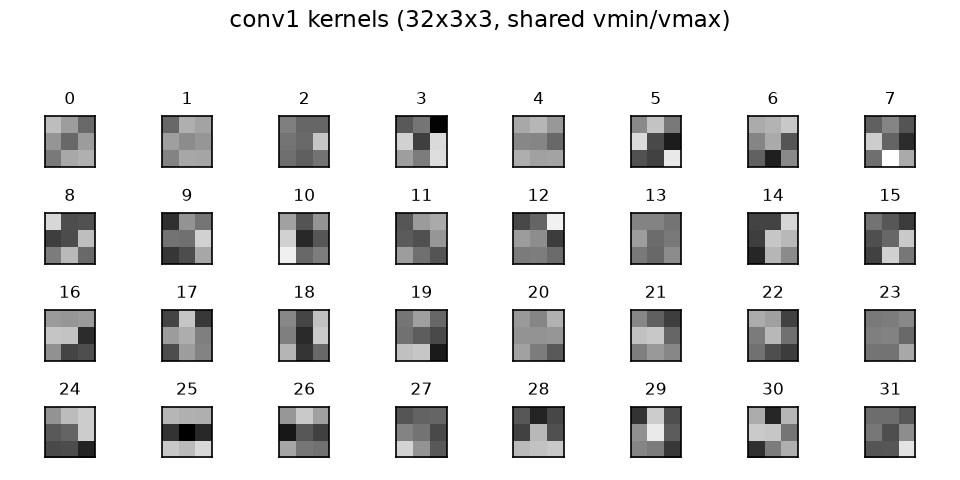
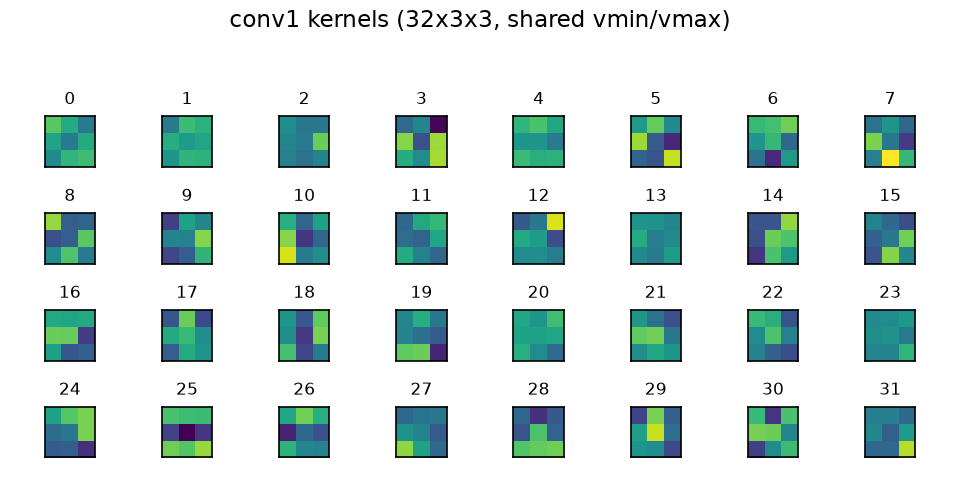
README: embed sample output images; restore colormap figures (viridis/magma)

diff --git a/visualize_features.py b/visualize_features.py
@@ -3,7 +3,7 @@
 Loads the best model (``best_model.pt``) and writes two figures to
 ``--out-dir`` (default, project root):
 
-- ``conv1_filters.png``: ``conv1``'s 32 learned 3x3 kernels as a grayscale grid.
+- ``conv1_filters.png``: ``conv1``'s 32 learned 3x3 kernels as a viridis grid.
 - ``feature_maps.png``: for one test image per digit, the activation maps after
   each of the three conv blocks (8 evenly-spaced channels sampled per block)
   plus the digit the model predicted.
@@ -77,7 +77,7 @@ def plot_conv1_filters(model: MNISTNet, out_dir: Path) -> None:
     for index, ax in enumerate(axes.flat):
         data = filters[index].astype("float64")
         normalized = (data - lower) / span
-        ax.imshow(normalized, cmap="gray", vmin=0.0, vmax=1.0)
+        ax.imshow(normalized, cmap="viridis", vmin=0.0, vmax=1.0)
         ax.set_title(f"{index}", fontsize=8)
         ax.tick_params(left=False, bottom=False, labelleft=False, labelbottom=False)
     fig.suptitle(f"conv1 kernels ({filters.shape[0]}x3x3, shared vmin/vmax)", fontsize=11)
@@ -139,7 +139,7 @@ def plot_feature_maps(
             num_channels = block.shape[0]
             sample = sample_channels(num_channels, cols_per_block)
             for offset, channel in enumerate(sample):
-                show_tile(axes[digit, col_starts[block_idx] + offset], block[channel], "gray")
+                show_tile(axes[digit, col_starts[block_idx] + offset], block[channel], "magma")
 
     for block_idx, label in enumerate(BLOCK_LABELS):
         axes[0, col_starts[block_idx]].set_title(label, fontsize=8)

diff --git a/NOTES.md b/NOTES.md
@@ -11,10 +11,10 @@
 New script `visualize_features.py` (make target: `make features`) for inspecting learned
 features, loading `best_model.pt` read-only (eval mode, `torch.no_grad`):
 - `conv1_filters.png`: conv1's 32 learned 3x3 kernels as a 4x8 grid (per-kernel
-  min/max normalization to a shared [0,1], grayscale).
+  min/max normalization to a shared [0,1], viridis).
 - `feature_maps.png`: one test image per digit 0-9 (from the un-augmented test set),
   with 8 evenly-spaced channels sampled from the output of each of the three conv
-  blocks (grayscale), plus the model's predicted digit per row.
+  blocks (magma), plus the model's predicted digit per row.
 Implementation notes: block outputs are captured with a single forward hook on the
 **shared** `model.pool` module (called once per block), which fires exactly 3x in block
 order during one forward, giving (1,32,14,14) / (1,64,7,7) / (1,128,3,3) activations.

diff --git a/README.md b/README.md
@@ -83,6 +83,20 @@ Outputs written to `results/` (override per-run with `--out-dir`):
 - `results/correct_predictions.png`, `results/incorrect_predictions.png` — sample grids
 - `results/conv1_filters.png`, `results/feature_maps.png` — learned feature visualizations
 
+## Sample outputs
+
+| Training curves | Confusion matrix |
+| --- | --- |
+| ![Training curves](results/training_curves.png) | ![Confusion matrix](results/confusion_matrix.png) |
+
+| Correct predictions | Incorrect predictions |
+| --- | --- |
+| ![Correct predictions](results/correct_predictions.png) | ![Incorrect predictions](results/incorrect_predictions.png) |
+
+| Conv1 kernels | Activation maps per digit |
+| --- | --- |
+| ![Conv1 kernels](results/conv1_filters.png) | ![Activation maps](results/feature_maps.png) |
+
 ## Protocol
 
 - Split: 55,000 train / 5,000 validation (seed 42); no augmentation on validation.
